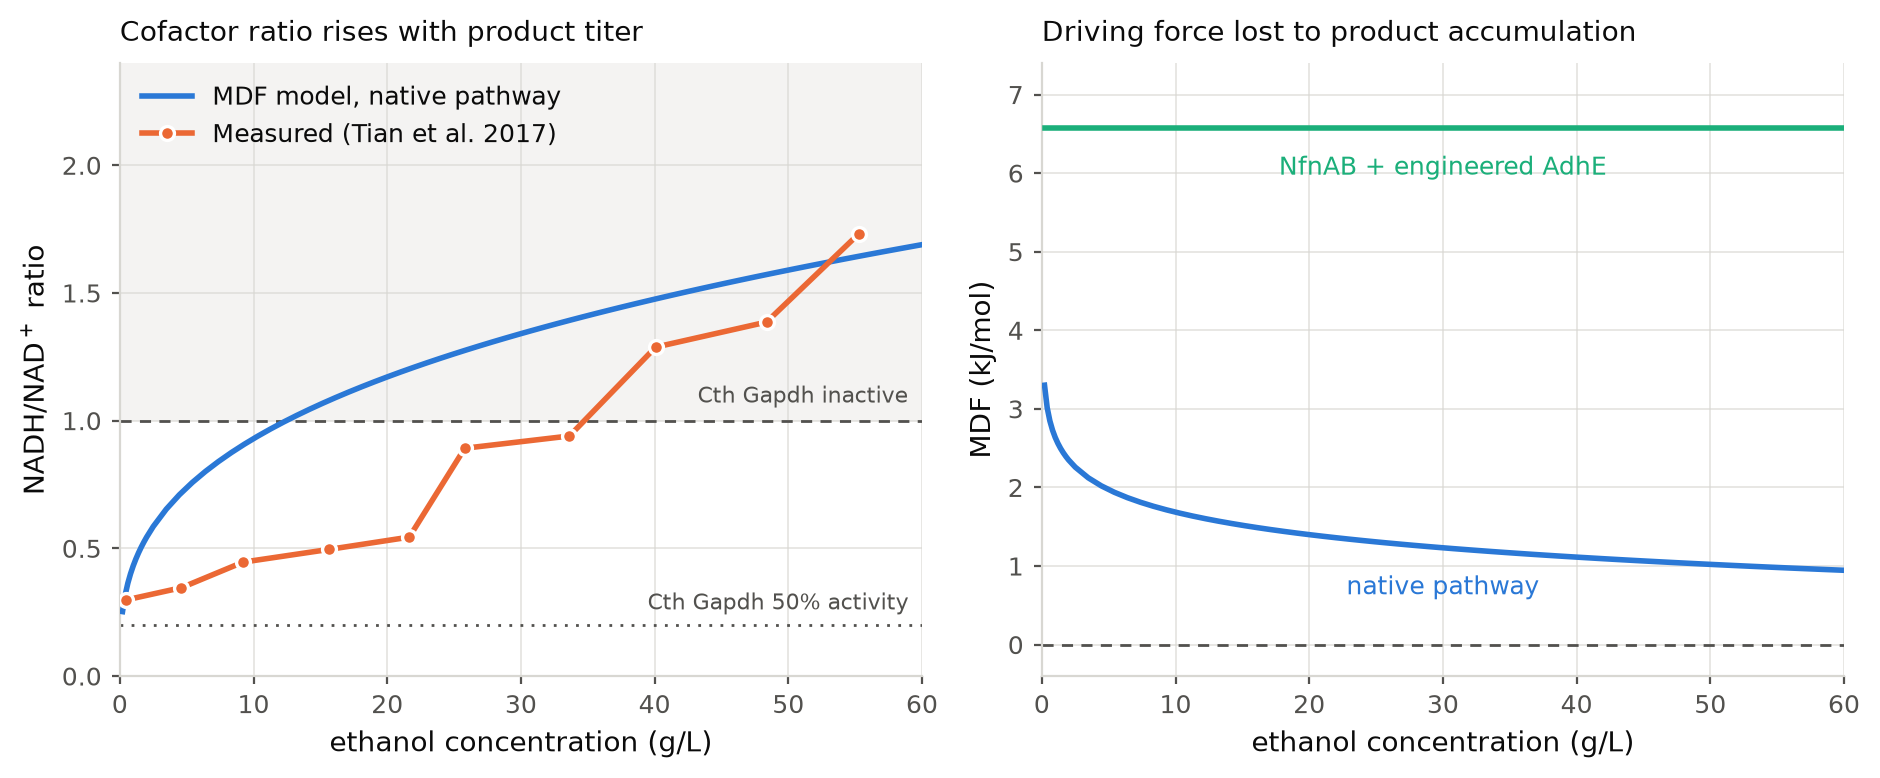
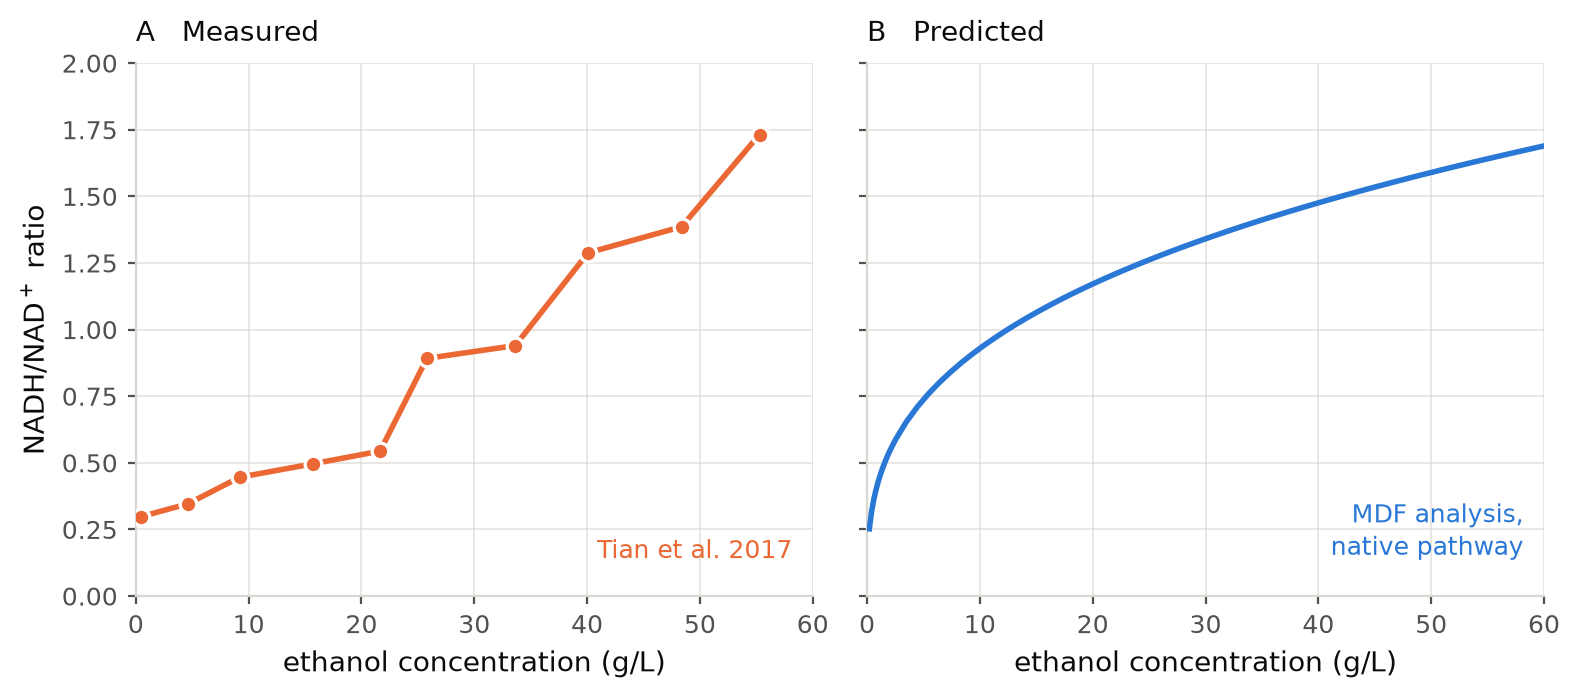
Show measured and predicted NADH/NAD+ as two panels
Side by side on a shared scale rather than overlaid, so the two trends are
compared on their own terms rather than implying a quantitative fit. Drops the
MDF-versus-titer panel and the in vitro Gapdh thresholds from the figure; both
remain described in the README.

diff --git a/compare_to_tian2017.py b/compare_to_tian2017.py
@@ -38,24 +38,16 @@ import mdf_pathways as mdf  # noqa: E402
 
 MW_ETOH = 46.069  # g/mol -> 1 mM = 0.046069 g/L
 
-WT_MODE = 5   # Cth ethanologen, wild-type NADH-linked AdhE
-NFN_MODE = 4  # NfnAB with NADPH-linked AdhE
+WT_MODE = 5  # Cth ethanologen, wild-type NADH-linked AdhE
 
-# Categorical slots 1-3 of the reference palette, which validate on all pairs in both
-# modes. Colour encodes the source, consistently across both panels.
-C_MODEL_WT = "#2a78d6"   # slot 1, blue   -- MDF model, native pathway
-C_MEASURED = "#eb6834"   # slot 2, orange -- Tian et al. 2017 measurement
-C_MODEL_NFN = "#1baf7a"  # slot 3, aqua   -- MDF model, NfnAB pathway
+# Categorical slots 1 and 2 of the reference palette. Colour encodes the source of the
+# number: measured or modelled.
+C_MEASURED = "#eb6834"  # slot 2, orange -- Tian et al. 2017 measurement
+C_MODEL_WT = "#2a78d6"  # slot 1, blue   -- MDF model, native pathway
 
 INK = "#0b0b0b"
 INK_MUTED = "#52514e"
 GRID = "#d8d7d2"
-
-# From Tian et al. (2017) Fig. 4: specific activity of purified Gapdh versus NADH/NAD+.
-# The C. thermocellum enzyme loses more than half its activity at 0.2 and essentially
-# all of it at 1.0, where the T. saccharolyticum enzyme retains ~30%.
-GAPDH_HALF = 0.2
-GAPDH_OFF = 1.0
 
 
 def mdf_vs_titer(mode_id, titers_gL, cc, model_path, sbtab_dir):
@@ -110,51 +102,30 @@ def main(argv=None):
     titers = np.concatenate([np.linspace(0.2, 2, 10), np.linspace(2.5, 60, 60)])
     sbtab_dir = args.outdir / "sbtab"
     wt = mdf_vs_titer(WT_MODE, titers, cc, args.model, sbtab_dir)
-    nfn = mdf_vs_titer(NFN_MODE, titers, cc, args.model, sbtab_dir)
 
-    fig, (ax1, ax2) = plt.subplots(1, 2, figsize=(9.5, 4.0))
+    # Two panels on a shared scale, so the shape of the two curves can be compared
+    # directly. One series each, so the panel title names it and no legend is needed.
+    fig, (ax1, ax2) = plt.subplots(1, 2, figsize=(8.0, 3.6), sharey=True)
 
-    # --- Panel A: predicted vs measured NADH/NAD+ -------------------------------------
-    ax1.axhspan(GAPDH_OFF, 2.4, color=GRID, alpha=0.28, lw=0, zorder=0)
-    ax1.axhline(GAPDH_OFF, color=INK_MUTED, lw=1.0, ls=(0, (4, 3)), zorder=1)
-    ax1.axhline(GAPDH_HALF, color=INK_MUTED, lw=1.0, ls=(0, (1, 3)), zorder=1)
-    ax1.text(59, GAPDH_OFF + 0.05, "Cth Gapdh inactive", ha="right", va="bottom",
-             fontsize=8, color=INK_MUTED)
-    ax1.text(59, GAPDH_HALF + 0.04, "Cth Gapdh 50% activity", ha="right", va="bottom",
-             fontsize=8, color=INK_MUTED)
-
-    ax1.plot(wt.etoh_gL, wt.nadh_nad, color=C_MODEL_WT, lw=2,
-             label="MDF model, native pathway", zorder=3)
+    # --- Panel A: measured ------------------------------------------------------------
     ax1.plot(measured.etoh_gL, measured.nadh_nad, color=C_MEASURED, lw=2,
-             marker="o", ms=5, mew=1.2, mec="white",
-             label="Measured (Tian et al. 2017)", zorder=4)
-
-    ax1.set_xlabel("ethanol concentration (g/L)")
+             marker="o", ms=6, mew=1.2, mec="white", zorder=3)
     ax1.set_ylabel(r"NADH/NAD$^+$ ratio")
-    ax1.set_xlim(0, 60)
-    ax1.set_ylim(0, 2.4)
-    style(ax1)
-    ax1.legend(loc="upper left", frameon=False, fontsize=9, labelcolor=INK)
-    ax1.set_title("Cofactor ratio rises with product titer",
-                  fontsize=10, color=INK, loc="left", pad=8)
+    ax1.set_title("A   Measured", fontsize=10, color=INK, loc="left", pad=8)
+    ax1.text(0.97, 0.06, "Tian et al. 2017", transform=ax1.transAxes, ha="right",
+             va="bottom", fontsize=9, color=C_MEASURED)
 
-    # --- Panel B: MDF versus titer ----------------------------------------------------
-    ax2.axhline(0, color=INK_MUTED, lw=1.0, ls=(0, (4, 3)), zorder=1)
-    ax2.plot(nfn.etoh_gL, nfn.mdf, color=C_MODEL_NFN, lw=2, zorder=3)
-    ax2.plot(wt.etoh_gL, wt.mdf, color=C_MODEL_WT, lw=2, zorder=3)
+    # --- Panel B: predicted -----------------------------------------------------------
+    ax2.plot(wt.etoh_gL, wt.nadh_nad, color=C_MODEL_WT, lw=2, zorder=3)
+    ax2.set_title("B   Predicted", fontsize=10, color=INK, loc="left", pad=8)
+    ax2.text(0.97, 0.06, "MDF analysis,\nnative pathway", transform=ax2.transAxes,
+             ha="right", va="bottom", fontsize=9, color=C_MODEL_WT, linespacing=1.3)
 
-    ax2.text(30, nfn.mdf.iloc[-1] - 0.35, "NfnAB + engineered AdhE", ha="center",
-             va="top", fontsize=9, color=C_MODEL_NFN)
-    ax2.text(30, np.interp(30, wt.etoh_gL, wt.mdf) - 0.35, "native pathway",
-             ha="center", va="top", fontsize=9, color=C_MODEL_WT)
-
-    ax2.set_xlabel("ethanol concentration (g/L)")
-    ax2.set_ylabel("MDF (kJ/mol)")
-    ax2.set_xlim(0, 60)
-    ax2.set_ylim(-0.4, 7.4)
-    style(ax2)
-    ax2.set_title("Driving force lost to product accumulation",
-                  fontsize=10, color=INK, loc="left", pad=8)
+    for ax in (ax1, ax2):
+        ax.set_xlabel("ethanol concentration (g/L)")
+        ax.set_xlim(0, 60)
+        ax.set_ylim(0, 2.0)
+        style(ax)
 
     fig.tight_layout()
     figure_dir = args.outdir / "figures"

diff --git a/README.md b/README.md
@@ -300,10 +300,10 @@ increase in ethanol is paid for directly out of the pathway's driving force.
 
 ### Comparison with measured metabolome data
 
-`python compare_to_tian2017.py` overlays the predicted NADH/NAD⁺ ratio on the values
-measured by Tian et al. (2017), who added ethanol to a growing *C. thermocellum* culture
-at ~5 g/L/h and quantified intracellular metabolites by LC-MS
-(`results/figures/tian2017_comparison.*`).
+`python compare_to_tian2017.py` plots the measured and predicted NADH/NAD⁺ ratios side by
+side on a common scale (`results/figures/tian2017_comparison.*`). The measurements are
+from Tian et al. (2017), who added ethanol to a growing *C. thermocellum* culture at
+~5 g/L/h and quantified intracellular metabolites by LC-MS against purified standards.
 
 | ethanol (g/L) | measured NADH/NAD⁺ | predicted |
 |---:|---:|---:|
@@ -323,10 +323,11 @@ not kinetics, becomes the binding constraint.
 The same study independently identified GAPDH as the site of the bottleneck, by two routes
 this analysis does not use: metabolites accumulated upstream of GAPDH and were depleted
 downstream of it, and the purified *C. thermocellum* enzyme lost more than half its
-activity at NADH/NAD⁺ = 0.2 and essentially all of it at 1.0 (the reference lines in the
-figure), where the *T. saccharolyticum* enzyme retained ~30%. Expressing the
-*T. saccharolyticum* `gapdh` in *C. thermocellum* improved both ethanol tolerance and
-production.
+activity at NADH/NAD⁺ = 0.2 and essentially all of it at 1.0, where the
+*T. saccharolyticum* enzyme retained ~30%. Expressing the *T. saccharolyticum* `gapdh` in
+*C. thermocellum* improved both ethanol tolerance and production. The measured ratio
+crosses 1.0 at roughly 35 g/L ethanol — the point at which, in vitro, the native enzyme
+stops working.
 
 ### Net ΔrG′° is identical within a stoichiometry class
 
